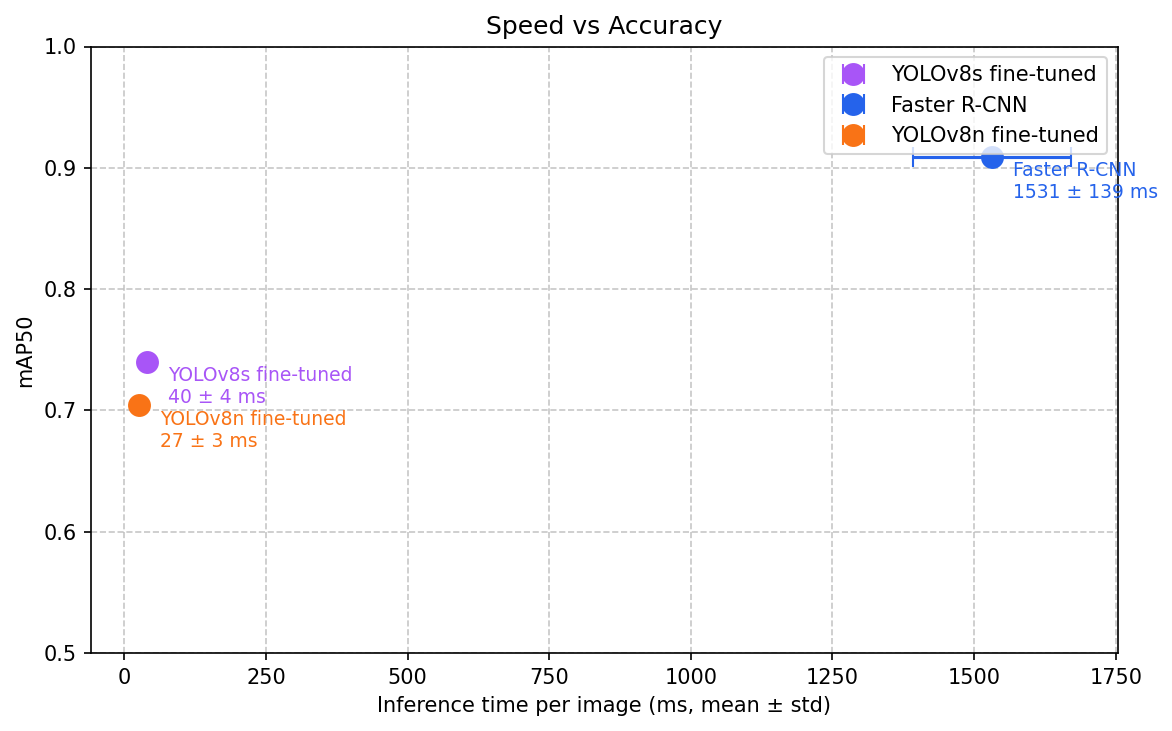
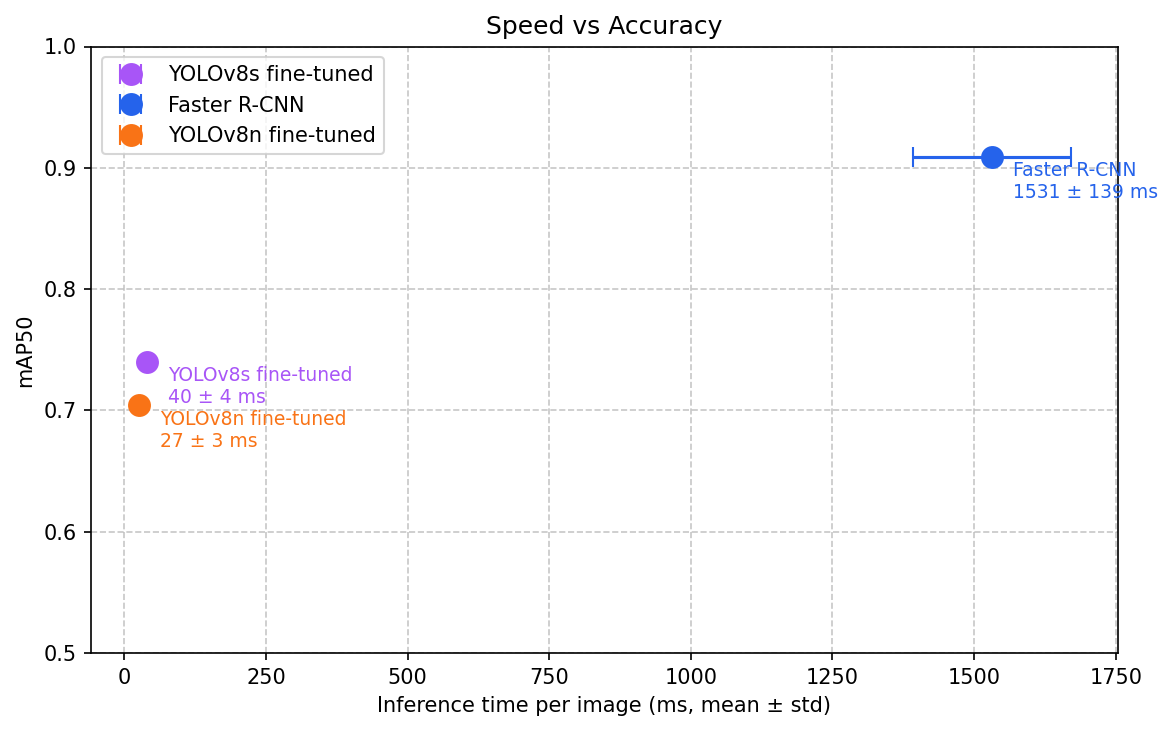
plot interference times

Changed region(s): [[0.7065, 0.0602, 0.9522, 0.2107], [0.1536, 0.0602, 0.3379, 0.2107], [0.0922, 0.0602, 0.1229, 0.2107]]

diff --git a/scripts/plot_inference_times.py b/scripts/plot_inference_times.py
@@ -69,7 +69,7 @@ def main():
     ax.set_title("Speed vs Accuracy")
     ax.set_ylim(0.5, 1.0)
     ax.grid(True, linestyle="--", alpha=0.7)
-    ax.legend()
+    ax.legend(loc="upper left")
     fig.tight_layout()
 
     args.out.mkdir(parents=True, exist_ok=True)
